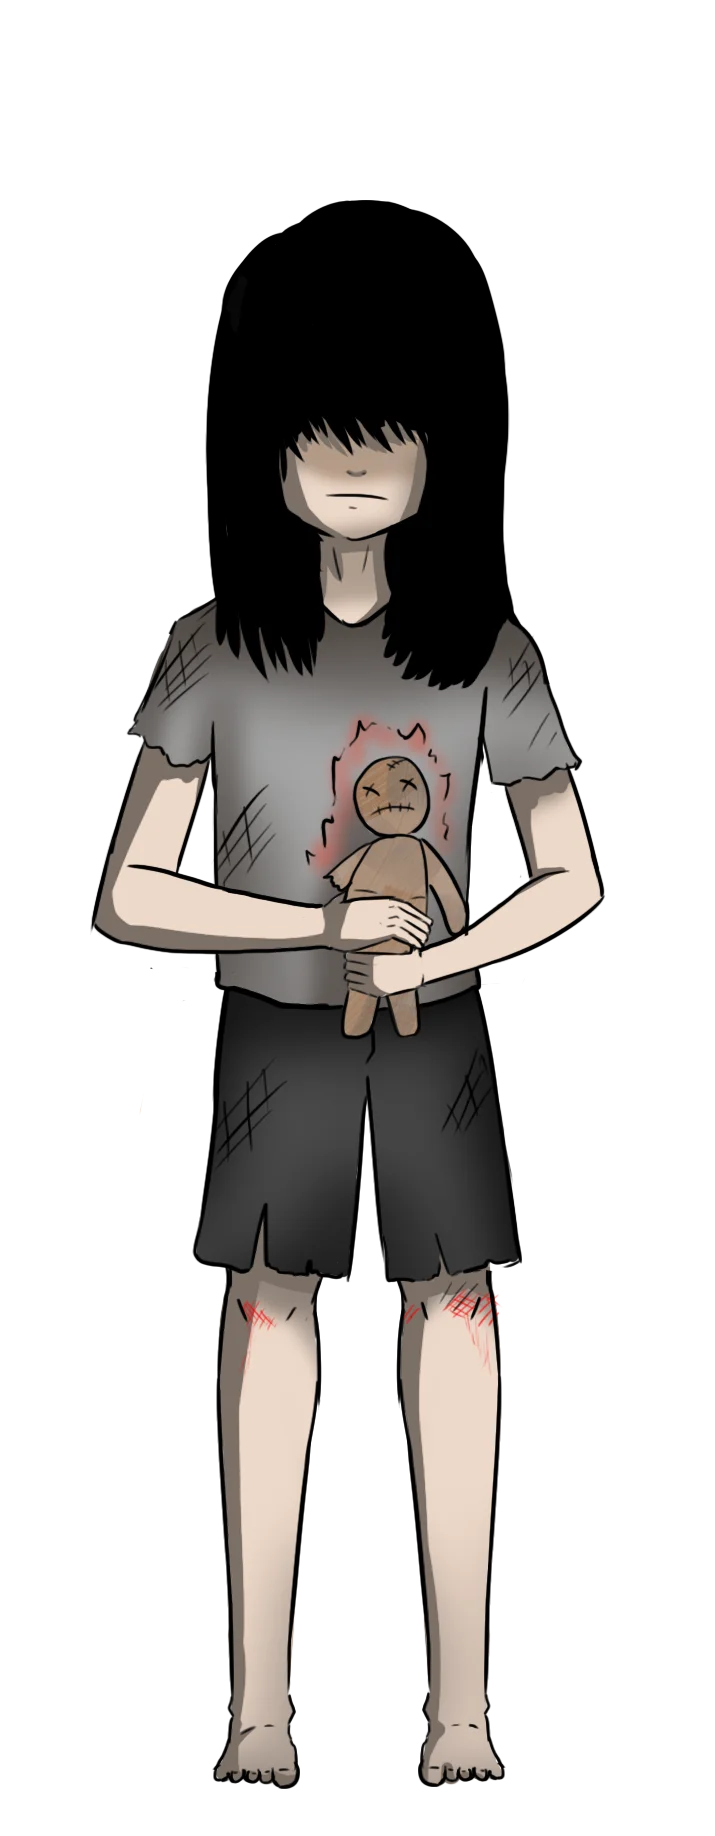
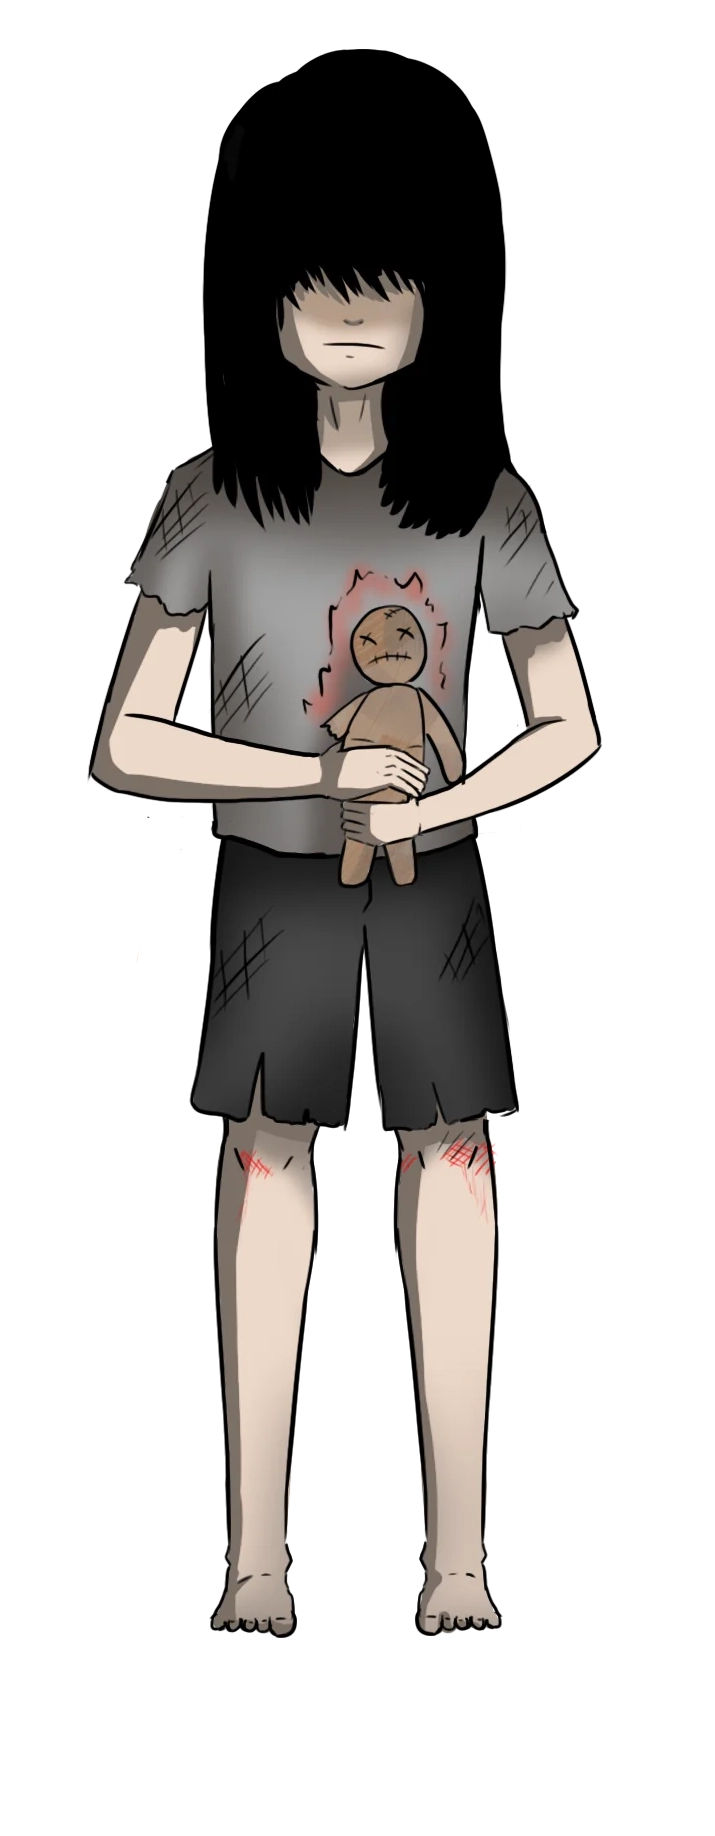
auto update Sat 10/25/2025  8:33:40.91

diff --git a/js/script.js b/js/script.js
@@ -410,7 +410,7 @@ const characterDetails = [
     race: "Arwah Manusia",
     trait: "Hening, menyeramkan, dan abadi di antara dua dunia.",
     background: "Relta adalah roh korban kecelakaan kereta yang terjebak di rel tanpa palang.",
-    imageDetail: "./images/relt1.webp",
+    imageDetail: "./images/relta.webp",
     imageBackground: "./images/relt3.webp",
   },
   {
